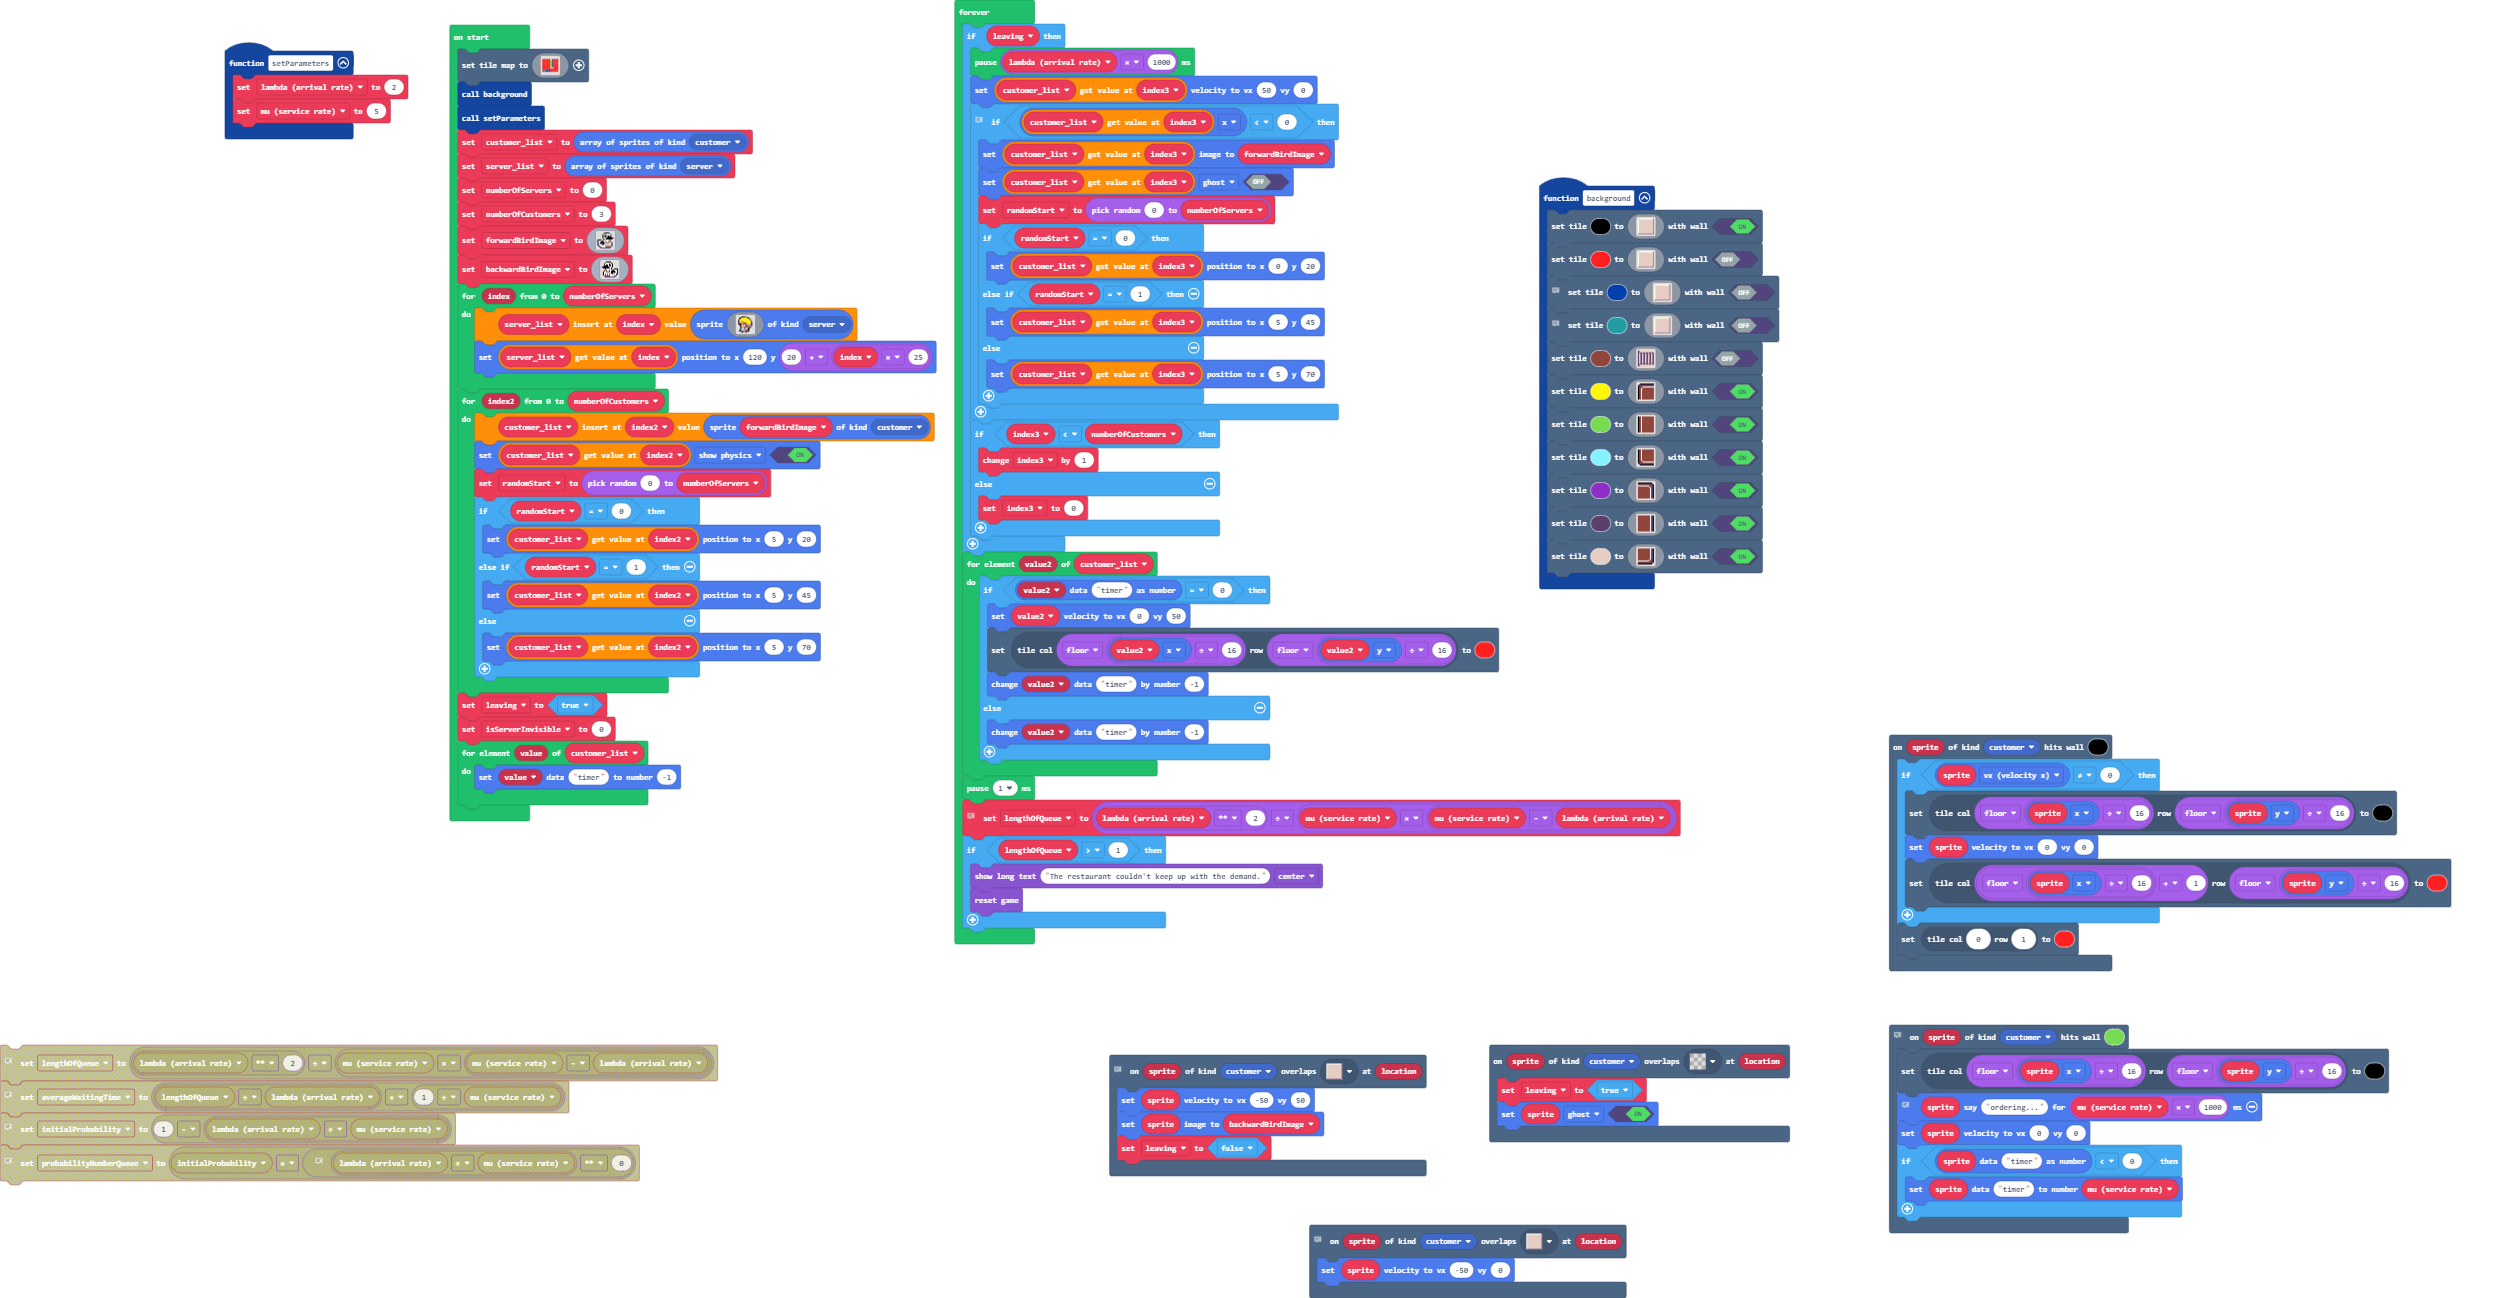
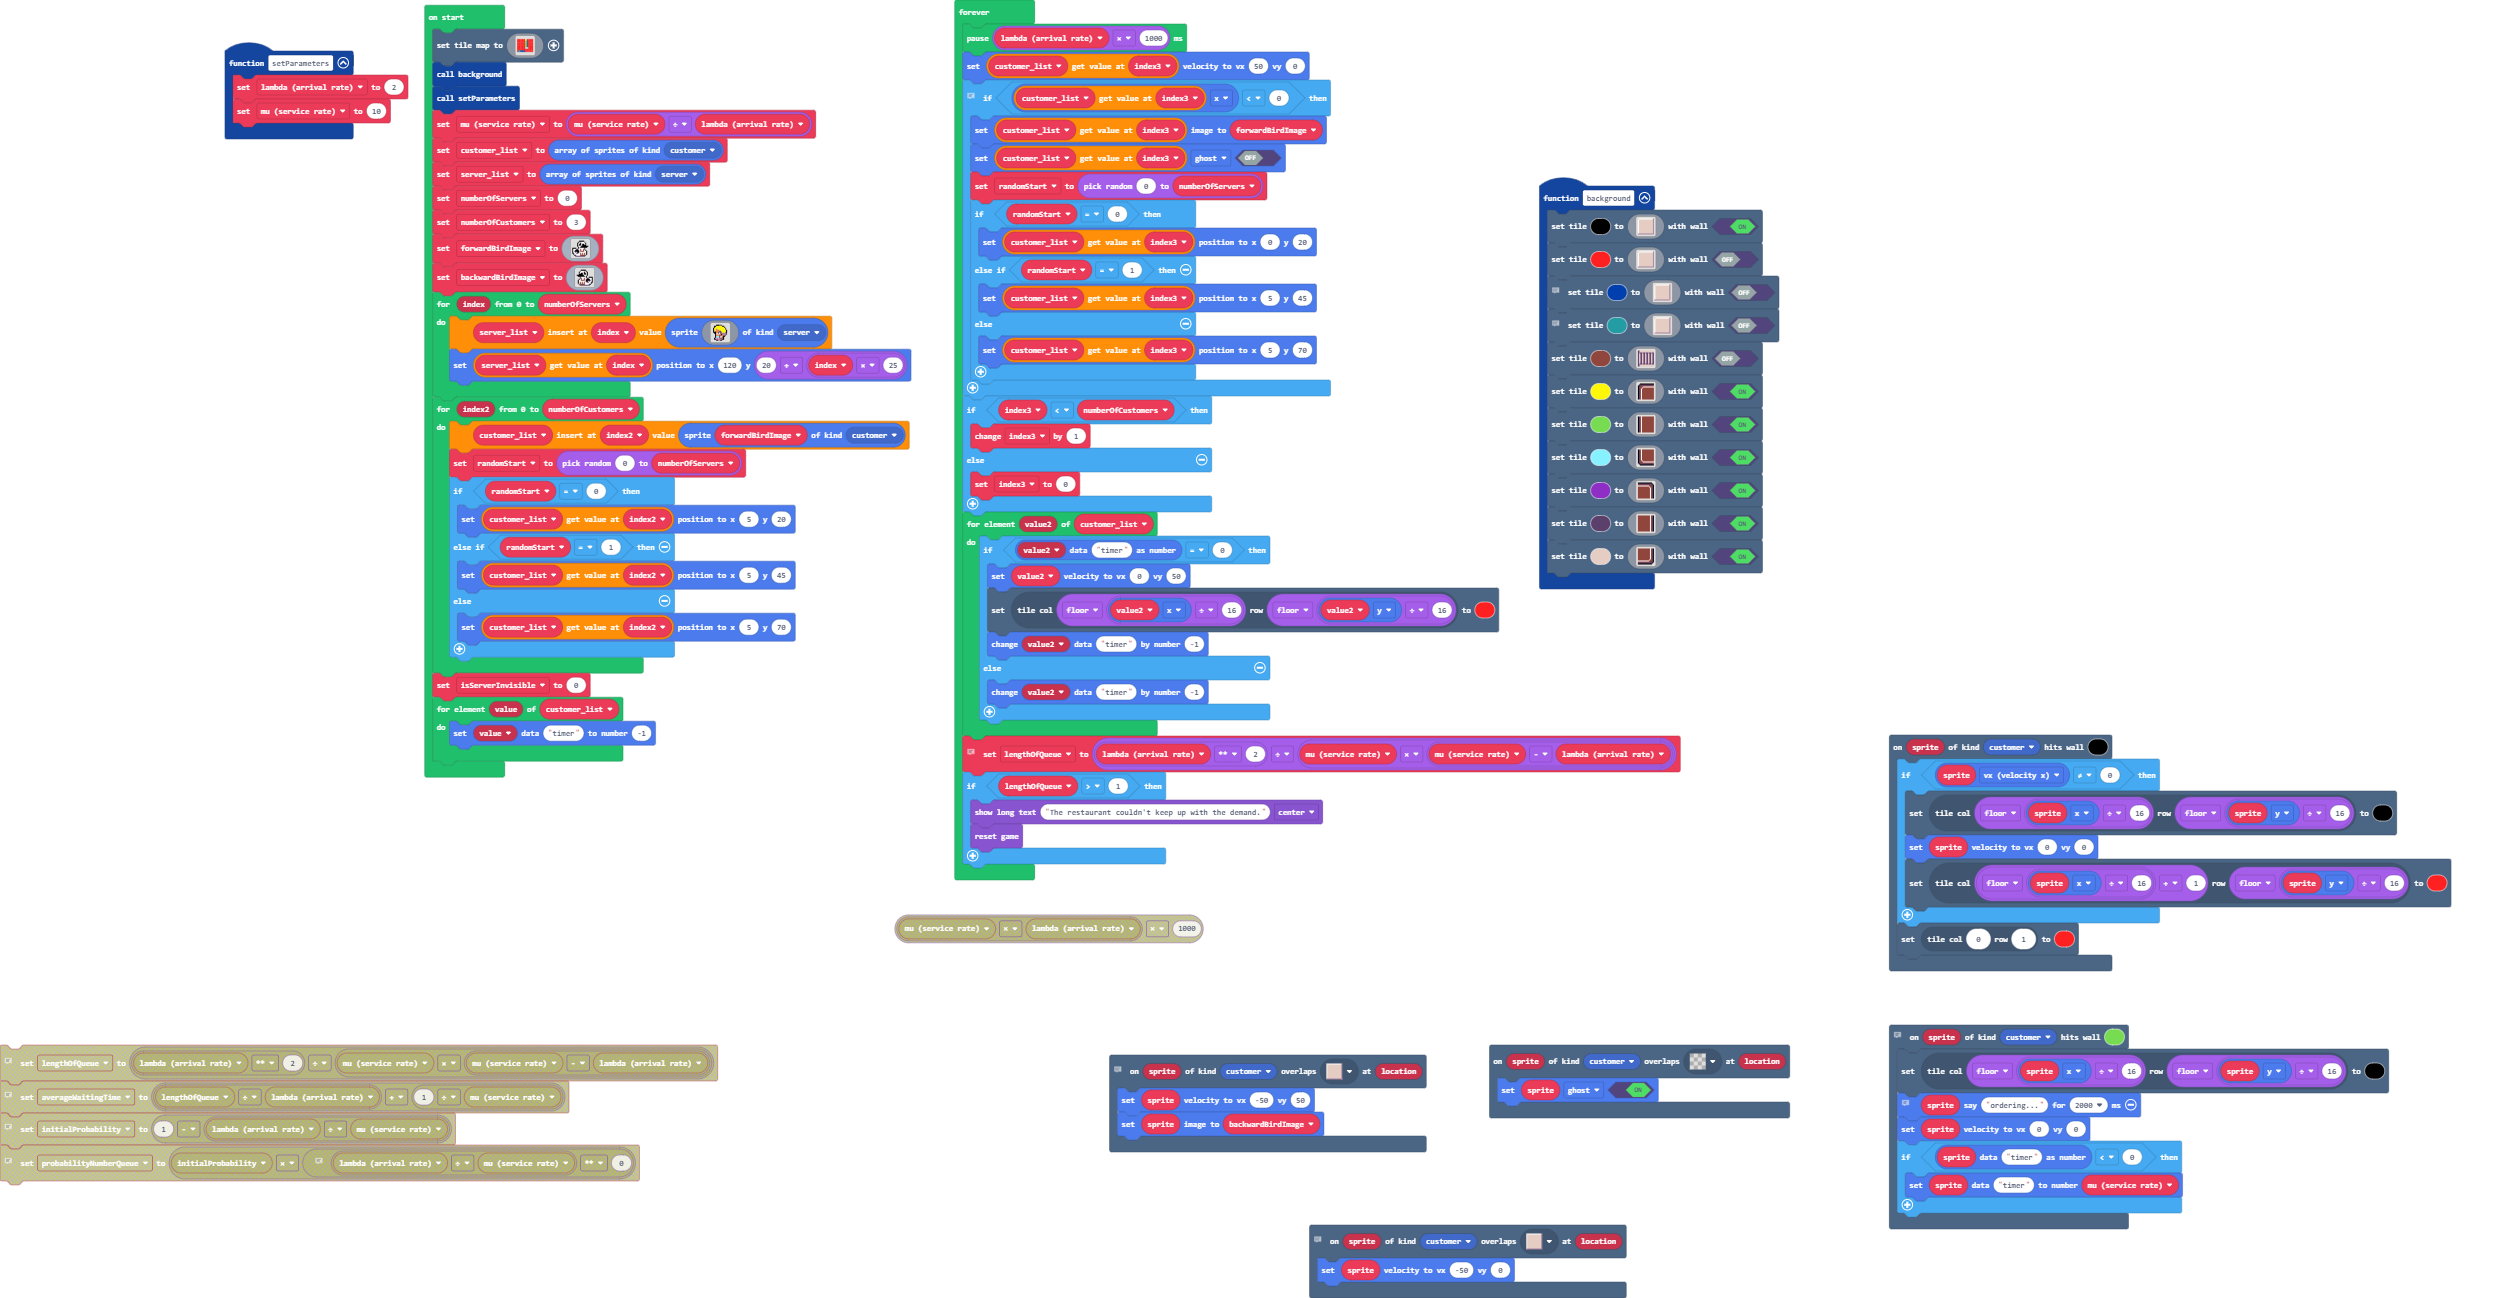
Update main.blocks, main.ts

Changed region(s): [[0.1558, 0.0, 0.6856, 0.7396], [0.4363, 0.832, 0.7167, 0.9245], [0.7479, 0.832, 0.9037, 0.9553]]

diff --git a/main.ts b/main.ts
@@ -7,7 +7,7 @@ namespace SpriteKind {
 }
 function setParameters () {
     lambda_arrival_rate = 2
-    mu_service_rate = 5
+    mu_service_rate = 10
 }
 function background () {
     scene.setTile(15, img`
@@ -223,17 +223,15 @@ scene.onHitTile(SpriteKind.customer, 15, function (sprite) {
 scene.onOverlapTile(SpriteKind.customer, myTiles.tile14, function (sprite, location) {
     sprite.setVelocity(-50, 50)
     sprite.setImage(backwardBirdImage)
-    leaving = false
 })
 scene.onOverlapTile(SpriteKind.customer, sprites.dungeon.stairEast, function (sprite, location) {
-    leaving = true
     sprite.setFlag(SpriteFlag.Ghost, true)
 })
 // when customer arrives at the counter
 scene.onHitTile(SpriteKind.customer, 7, function (sprite) {
     scene.setTileAt(scene.getTile(Math.floor(sprite.x / 16), Math.floor(sprite.y / 16)), 15)
     // need to pause for a few seconds
-    sprite.say("ordering...", mu_service_rate * 1000)
+    sprite.say("ordering...", 2000)
     sprite.setVelocity(0, 0)
     if (sprites.readDataNumber(sprite, "timer") < 0) {
         sprites.setDataNumber(sprite, "timer", mu_service_rate)
@@ -245,11 +243,10 @@ scene.onOverlapTile(SpriteKind.customer, myTiles.tile1, function (sprite, locati
 })
 let lengthOfQueue = 0
 let index3 = 0
-let mu_service_rate = 0
-let lambda_arrival_rate = 0
-let leaving = false
 let randomStart = 0
 let backwardBirdImage: Image = null
+let lambda_arrival_rate = 0
+let mu_service_rate = 0
 scene.setTileMap(img`
     2 2 2 2 2 5 a 2 2 2 
     2 2 2 2 2 7 c 2 2 2 
@@ -262,6 +259,7 @@ scene.setTileMap(img`
     `)
 background()
 setParameters()
+mu_service_rate = mu_service_rate / lambda_arrival_rate
 let customer_list = sprites.allOfKind(SpriteKind.customer)
 let server_list = sprites.allOfKind(SpriteKind.server)
 let numberOfServers = 0
@@ -325,7 +323,6 @@ for (let index = 0; index <= numberOfServers; index++) {
 }
 for (let index2 = 0; index2 <= numberOfCustomers; index2++) {
     customer_list.insertAt(index2, sprites.create(forwardBirdImage, SpriteKind.customer))
-    customer_list[index2].setFlag(SpriteFlag.ShowPhysics, true)
     randomStart = randint(0, numberOfServers)
     if (randomStart == 0) {
         customer_list[index2].setPosition(5, 20)
@@ -335,33 +332,30 @@ for (let index2 = 0; index2 <= numberOfCustomers; index2++) {
         customer_list[index2].setPosition(5, 70)
     }
 }
-leaving = true
 let isServerInvisible = 0
 for (let value of customer_list) {
     sprites.setDataNumber(value, "timer", -1)
 }
 forever(function () {
-    if (leaving) {
-        pause(lambda_arrival_rate * 1000)
-        customer_list[index3].setVelocity(50, 0)
-        // respawns customer after they leave
-        if (customer_list[index3].x < 0) {
-            customer_list[index3].setImage(forwardBirdImage)
-            customer_list[index3].setFlag(SpriteFlag.Ghost, false)
-            randomStart = randint(0, numberOfServers)
-            if (randomStart == 0) {
-                customer_list[index3].setPosition(0, 20)
-            } else if (randomStart == 1) {
-                customer_list[index3].setPosition(5, 45)
-            } else {
-                customer_list[index3].setPosition(5, 70)
-            }
-        }
-        if (index3 < numberOfCustomers) {
-            index3 += 1
+    pause(lambda_arrival_rate * 1000)
+    customer_list[index3].setVelocity(50, 0)
+    // respawns customer after they leave
+    if (customer_list[index3].x < 0) {
+        customer_list[index3].setImage(forwardBirdImage)
+        customer_list[index3].setFlag(SpriteFlag.Ghost, false)
+        randomStart = randint(0, numberOfServers)
+        if (randomStart == 0) {
+            customer_list[index3].setPosition(0, 20)
+        } else if (randomStart == 1) {
+            customer_list[index3].setPosition(5, 45)
         } else {
-            index3 = 0
+            customer_list[index3].setPosition(5, 70)
         }
+    }
+    if (index3 < numberOfCustomers) {
+        index3 += 1
+    } else {
+        index3 = 0
     }
     for (let value2 of customer_list) {
         if (sprites.readDataNumber(value2, "timer") == 0) {
@@ -372,7 +366,6 @@ forever(function () {
             sprites.changeDataNumberBy(value2, "timer", -1)
         }
     }
-    pause(1)
     // slide 12
     lengthOfQueue = lambda_arrival_rate ** 2 / (mu_service_rate * (mu_service_rate - lambda_arrival_rate))
     if (lengthOfQueue > 1) {
